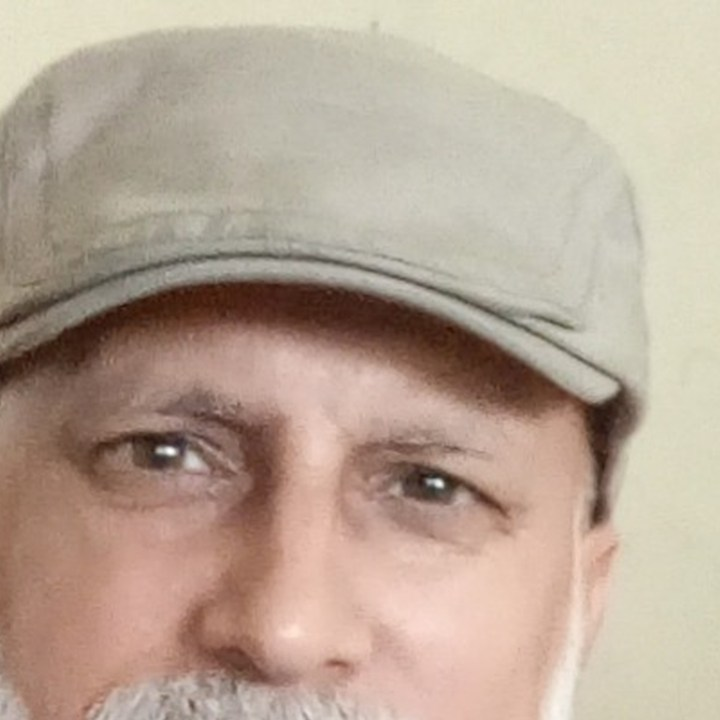
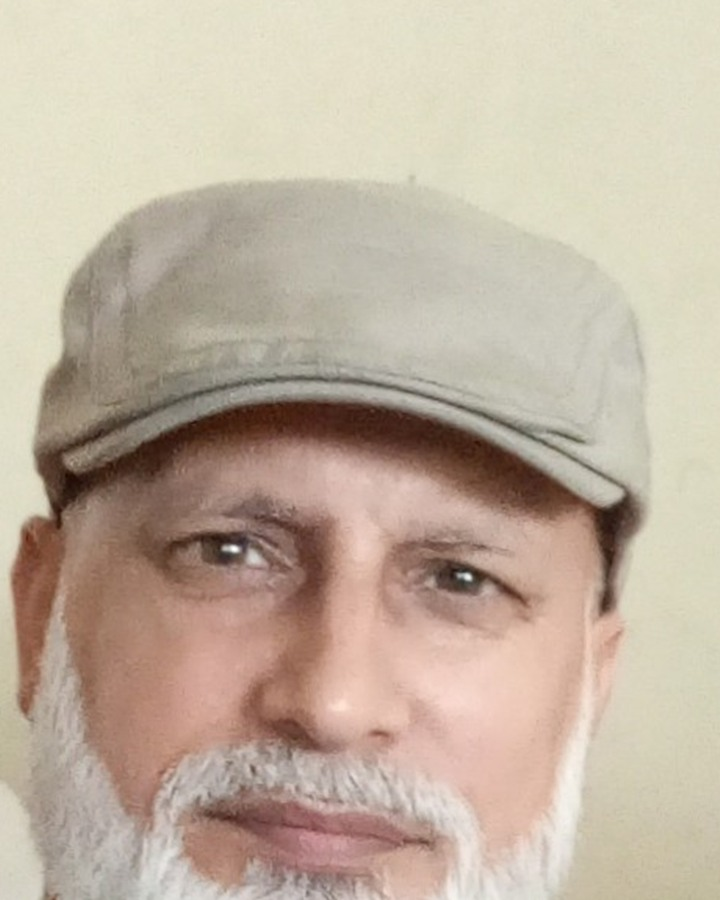
Updated the imtiaz profile.

diff --git a/src/app/team/page.tsx b/src/app/team/page.tsx
@@ -109,6 +109,11 @@ const TEAM = [
   },
 ] as const;
 
+/** Per-member object-position overrides for roster / profile crops */
+const TEAM_IMAGE_POSITION: Partial<Record<(typeof TEAM)[number]['id'], string>> = {
+  'imtiaz-ahmed': 'center center',
+};
+
 const TAHIR = {
   bio: [
     'Dr. Muhammad Tahir Shehzad is a senior scientific consultant specializing in advanced environmental analysis, contaminant remediation, and analytical instrumentation calibration. Holding a Ph.D. in Environmental Science and having conducted extensive research at the Global Centre for Environmental Remediation (GCER) in Australia, he brings high-level international expertise to the testing industry.',
@@ -634,7 +639,10 @@ export default function TeamPage() {
                       alt=""
                       fill
                       sizes="96px"
-                      className="object-cover object-[center_22%]"
+                      className="object-cover"
+                      style={{
+                        objectPosition: TEAM_IMAGE_POSITION[member.id] ?? 'center 22%',
+                      }}
                       priority={i === 0}
                     />
                   </div>
@@ -693,7 +701,7 @@ export default function TeamPage() {
                     alt="Portrait of Imtiaz Ahmed"
                     fill
                     sizes="260px"
-                    className="object-cover object-[center_22%]"
+                    className="object-cover object-center"
                     priority
                   />
                 </div>
